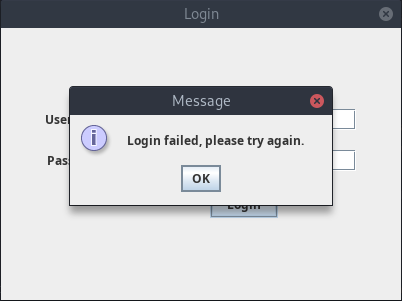
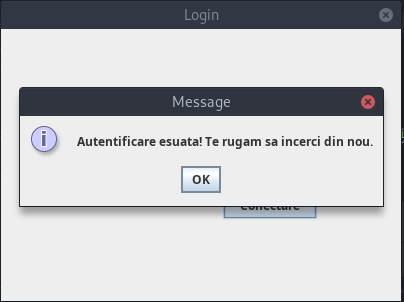
Update Images/

Changed region(s): [[0.0299, 0.2691, 0.9552, 0.7475], [0.0, 0.0, 1.0, 1.0]]

diff --git a/E-Asigurari/src/interfata/Conectare.java b/E-Asigurari/src/interfata/Conectare.java
@@ -43,7 +43,7 @@ public class Conectare extends JFrame {
         GridBagConstraints constraints = new GridBagConstraints();
         constraints.insets = new Insets(10, 10, 10, 10);
 
-        usernameLabel = new JLabel("Username: ");
+        usernameLabel = new JLabel("Nume de utilizator: ");
         constraints.gridx = 0;
         constraints.gridy = 0;
         panel.add(usernameLabel, constraints);
@@ -53,7 +53,7 @@ public class Conectare extends JFrame {
         constraints.gridy = 0;
         panel.add(usernameField, constraints);
 
-        passwordLabel = new JLabel("Password: ");
+        passwordLabel = new JLabel("Parola: ");
         constraints.gridx = 0;
         constraints.gridy = 1;
         panel.add(passwordLabel, constraints);
@@ -63,7 +63,7 @@ public class Conectare extends JFrame {
         constraints.gridy = 1;
         panel.add(passwordField, constraints);
 
-        loginButton = new JButton("Login");
+        loginButton = new JButton("Conectare");
         loginButton.addActionListener(new ActionListener() {
             @Override
             public void actionPerformed(ActionEvent e) {
@@ -71,12 +71,12 @@ public class Conectare extends JFrame {
                 char[] password = passwordField.getPassword();
 
                 if (verifyLogin(username, password)) {
-                    JOptionPane.showMessageDialog(null, "Login successful.");
+                    JOptionPane.showMessageDialog(null, "Autentificare reusita.");
                     dispose();
                     SelectiaMasinilor carSelectionUI = new SelectiaMasinilor();
                     carSelectionUI.setVisible(true);
                 } else {
-                    JOptionPane.showMessageDialog(null, "Login failed, please try again.");
+                    JOptionPane.showMessageDialog(null, "Autentificare esuata! Te rugam sa incerci din nou.");
                 }
             }
         });
